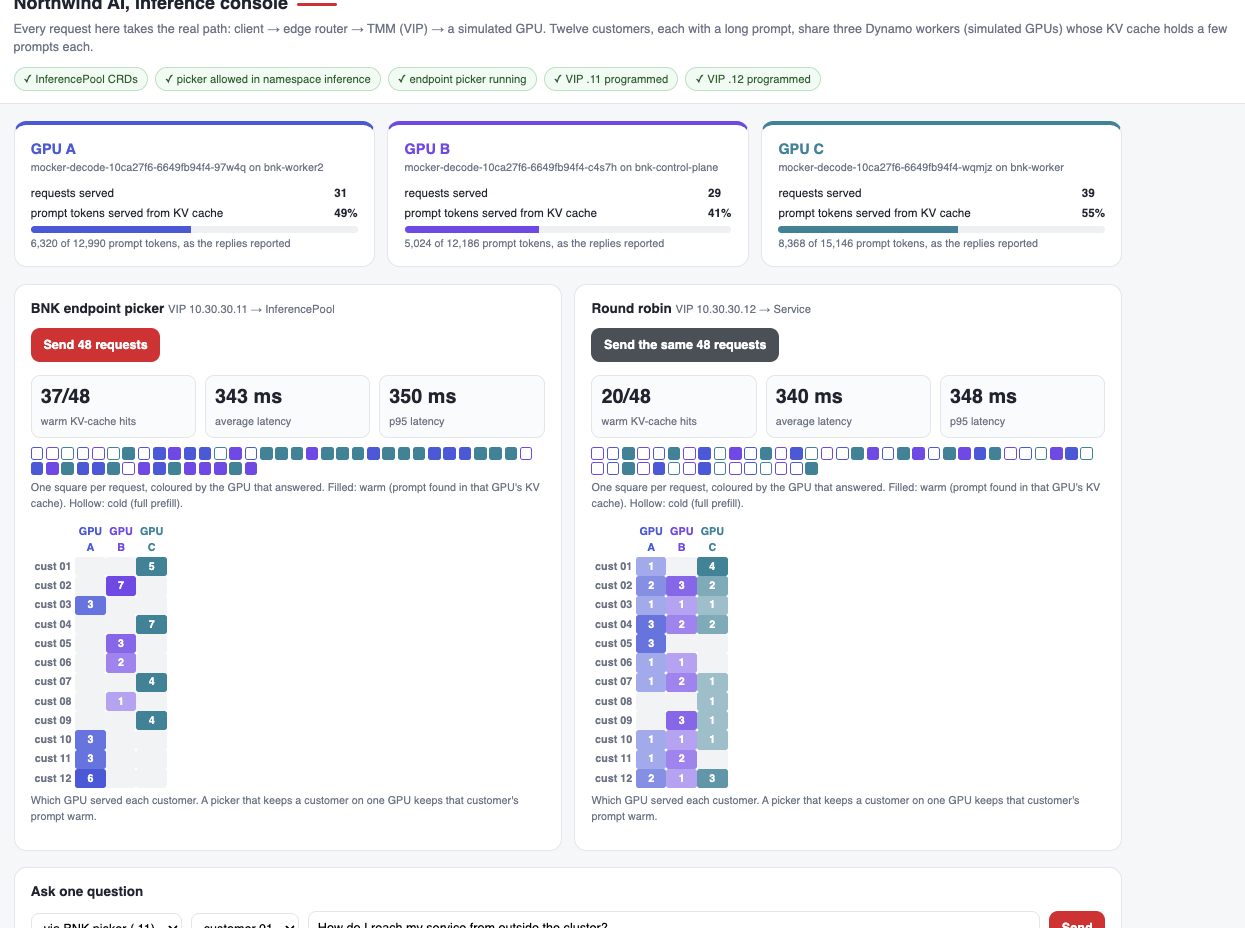
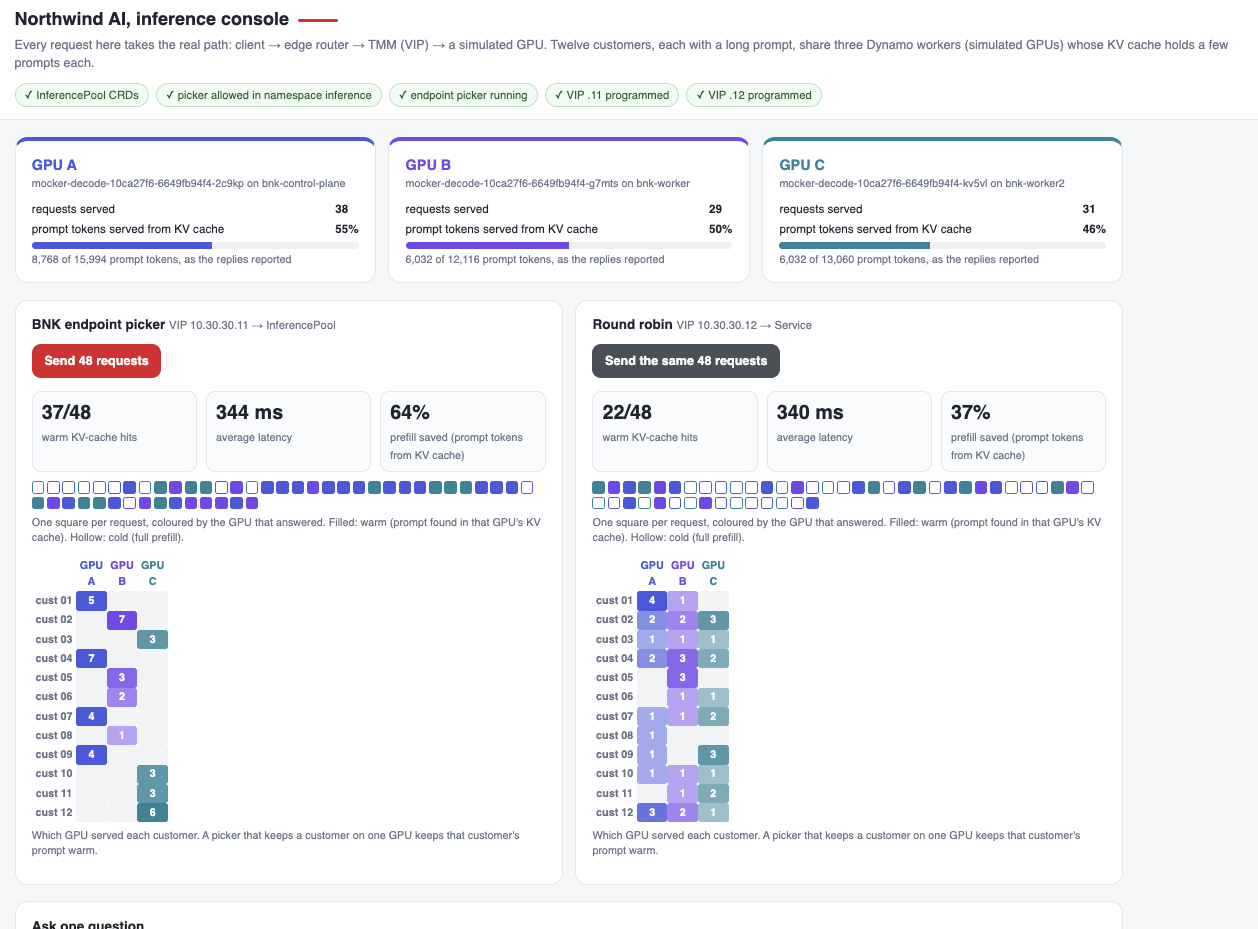
ch12: screenshot and figures from the pipeline-path run (37/48, 64% prefill saved vs 22/48, 37%)

diff --git a/instruqt/bnk-host-install/12-ai-inference/assignment.md b/instruqt/bnk-host-install/12-ai-inference/assignment.md
@@ -355,14 +355,14 @@ the identical sequence through `.12`.
 
 Here is a run on this very lab, BNK's picker on the left, round robin on the right:
 
-![AI Inference console: BNK endpoint picker 37 of 48 warm KV-cache hits with every customer on one GPU, round robin 20 of 48 with customers spread across all three GPUs](../assets/inference-console.png)
+![AI Inference console: BNK endpoint picker 37 of 48 warm KV-cache hits and 64 percent of prefill saved, every customer on one GPU, round robin 22 of 48 and 37 percent, customers spread across the GPUs](../assets/inference-console.png)
 
 Read the two panels side by side:
 
 | | Look for |
 |---|---|
-| **warm KV-cache hits** | how many of the 48 found their prompt already cached. On BNK in this lab: about **37** with the picker, about **20** with round robin |
-| **prefill saved** | the share of all prompt tokens served from KV cache instead of computed again |
+| **warm KV-cache hits** | how many of the 48 found their prompt already cached. On BNK in this lab: about **37** with the picker, about **20 to 22** with round robin |
+| **prefill saved** | the share of all prompt tokens served from KV cache instead of computed again: about **64%** with the picker against about **37%** with round robin. Nearly two thirds of the prefill work disappears |
 | **average latency** | about the same on both sides here, and that is honest: Mocker models a fast data-center GPU, where a few hundred tokens of prefill take milliseconds. The saving shows as latency with long contexts and under load, and as capacity always |
 | **the strip** | one square per request, coloured by the GPU that answered. Filled is warm, hollow is cold |
 | **the customer grid** | with the picker, each customer sits in **one** GPU column. With round robin, every customer is smeared across all three, and every GPU keeps evicting prompts it will need again |
